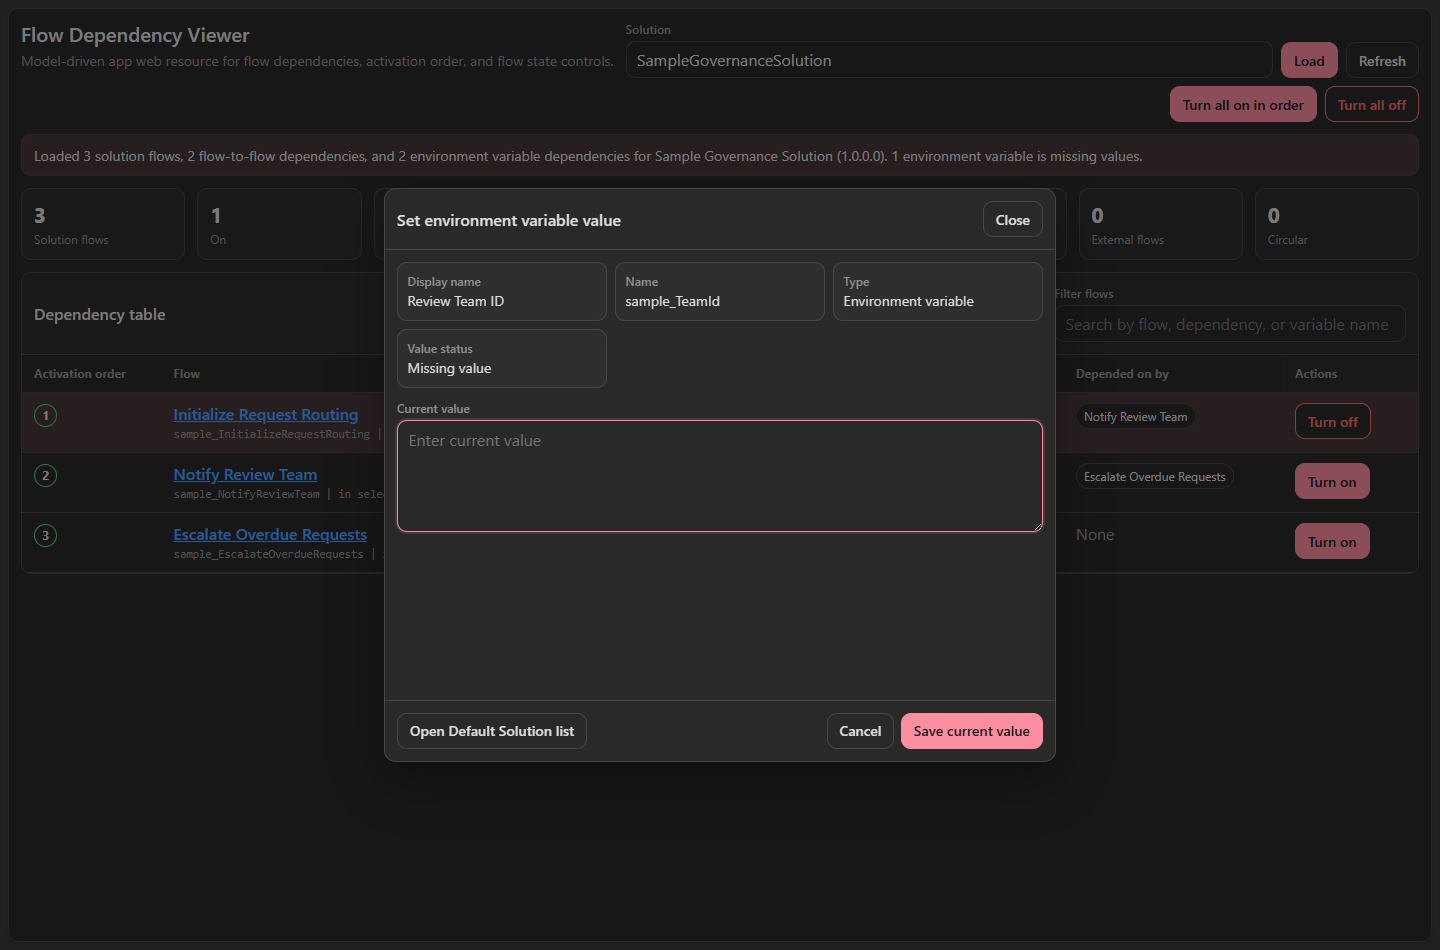
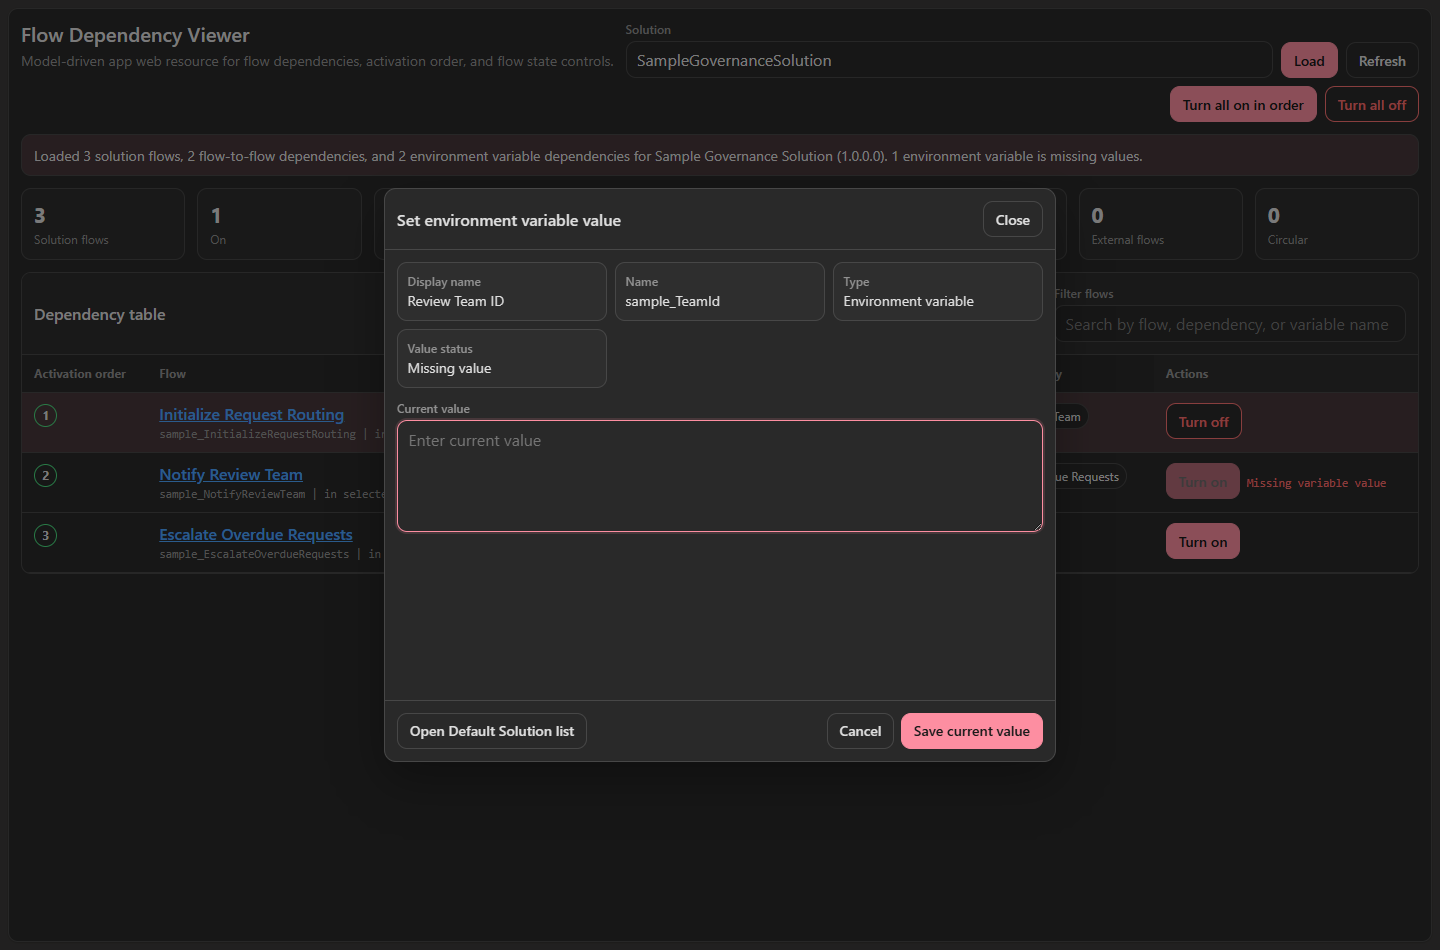
Block flow activation when variables are missing

diff --git a/tools/flow-dependency-viewer/solution/src/WebResources/fdv_/flowdependencyviewer.htm b/tools/flow-dependency-viewer/solution/src/WebResources/fdv_/flowdependencyviewer.htm
@@ -451,6 +451,9 @@
       border-color: var(--cp-danger);
       color: var(--cp-danger);
     }
+    .fdv-danger-text {
+      color: var(--cp-danger);
+    }
     .fdv-button-danger:hover:not(:disabled) {
       border-color: var(--cp-danger);
       font-weight: 700;
@@ -1530,6 +1533,11 @@
           if (inactiveExternalPrerequisites.length > 0) {
             blockedReasons.push(`${inactiveExternalPrerequisites.length} external prerequisite flow${inactiveExternalPrerequisites.length === 1 ? " is" : "s are"} off. Turn external prerequisites on first or add them to the solution.`);
           }
+
+          const flowsMissingEnvironmentVariables = orderedFlows.filter((flow) => getMissingEnvironmentVariables(flow).length > 0);
+          if (flowsMissingEnvironmentVariables.length > 0) {
+            blockedReasons.push(`${flowsMissingEnvironmentVariables.length} solution flow${flowsMissingEnvironmentVariables.length === 1 ? " is" : "s are"} missing required environment variable values. Set the missing values before turning flows on.`);
+          }
         }
 
         return { orderedFlows, blockedReasons };
@@ -1626,6 +1634,12 @@
             setMessage("error", `Turn on prerequisite flow${inactivePrerequisites.length === 1 ? "" : "s"} first: ${inactivePrerequisites.map((dependency) => dependency.name).join(", ")}.`);
             return;
           }
+
+          const missingEnvironmentVariables = getMissingEnvironmentVariables(flow);
+          if (missingEnvironmentVariables.length > 0) {
+            setMessage("error", `Set environment variable value${missingEnvironmentVariables.length === 1 ? "" : "s"} first: ${missingEnvironmentVariables.map(getEnvironmentVariableLabel).join(", ")}.`);
+            return;
+          }
         }
 
         const confirmed = await confirmAction(
@@ -1657,6 +1671,13 @@
       async function updateFlowState(flow, turnOn) {
         if (!flow.inSolution) {
           throw new Error(`${flow.name} is outside the selected solution and was not changed.`);
+        }
+
+        if (turnOn) {
+          const missingEnvironmentVariables = getMissingEnvironmentVariables(flow);
+          if (missingEnvironmentVariables.length > 0) {
+            throw new Error(`Set environment variable value${missingEnvironmentVariables.length === 1 ? "" : "s"} first: ${missingEnvironmentVariables.map(getEnvironmentVariableLabel).join(", ")}.`);
+          }
         }
 
         await getWebApi().updateRecord("workflow", flow.id, {
@@ -2508,9 +2529,18 @@
         }
 
         const turnOn = !isFlowActive(flow);
-        actions.appendChild(createButton(turnOn ? "Turn on" : "Turn off", turnOn ? "primary" : "danger", () => {
+        const missingEnvironmentVariables = turnOn ? getMissingEnvironmentVariables(flow) : [];
+        const button = createButton(turnOn ? "Turn on" : "Turn off", turnOn ? "primary" : "danger", () => {
           void setSingleFlowState(flow, turnOn);
-        }, state.isLoading || state.isWorking));
+        }, state.isLoading || state.isWorking || missingEnvironmentVariables.length > 0);
+        if (missingEnvironmentVariables.length > 0) {
+          button.title = `Set environment variable value${missingEnvironmentVariables.length === 1 ? "" : "s"} first: ${missingEnvironmentVariables.map(getEnvironmentVariableLabel).join(", ")}`;
+        }
+        actions.appendChild(button);
+
+        if (missingEnvironmentVariables.length > 0) {
+          actions.appendChild(createElement("div", "fdv-flow-meta fdv-danger-text", `Missing variable value${missingEnvironmentVariables.length === 1 ? "" : "s"}`));
+        }
 
         return cell;
       }
@@ -2781,6 +2811,14 @@
         }
 
         return "Missing value";
+      }
+
+      function getMissingEnvironmentVariables(flow) {
+        return Array.from(flow.environmentVariableIds)
+          .map((id) => state.environmentVariables.get(id))
+          .filter(Boolean)
+          .filter(isEnvironmentVariableValueMissing)
+          .sort(compareEnvironmentVariables);
       }
 
       function getMissingEnvironmentVariableCount(environmentVariableMap = state.environmentVariables, dependencies = state.environmentVariableDependencies) {

diff --git a/docs/FlowDependencyViewer.md b/docs/FlowDependencyViewer.md
@@ -12,6 +12,7 @@ It is designed for scenarios like:
 - Finding environment variables referenced by each flow
 - Flagging environment variables that are missing both current and default values
 - Opening flows directly and editing environment variable values from the table
+- Blocking flow activation until that flow's referenced environment variables have values
 
 ## Files
 
@@ -94,6 +95,8 @@ When activation commands are enabled, admins can:
 - Turn all solution flows on in activation order
 - Turn all solution flows off in reverse activation order
 
+The **Turn on** button is disabled for an individual flow when any environment variable referenced by that flow has no current value and no default value. Bulk activation also blocks until missing environment variable values are set.
+
 The control updates each workflow row to:
 
 | Action | `statecode` | `statuscode` |
@@ -143,6 +146,7 @@ This tool does not bypass Dataverse or Power Automate security checks.
 | Environment variable pill is red | The variable has no active current value and no default value |
 | Opening the Default Solution list fails | The Power Platform environment ID is not available in the URL or `environmentName` parameter, the Default Solution could not be found, or the user lacks access |
 | Saving an environment variable value fails | Current user lacks privileges to create or update `environmentvariablevalue` rows, or the variable type requires additional maker-specific configuration |
+| Turn on button is disabled | One or more environment variables referenced by that flow are missing values |
 | Turning on a flow fails with `XrmEnvironmentVariableAttributeNotFound` | A referenced environment variable is missing a value in this environment |
 | Turn on is blocked by prerequisite flows | A required flow is off; turn prerequisite flows on first |
 | Buttons are missing | Activation commands are disabled |

diff --git a/tools/flow-dependency-viewer/README.md b/tools/flow-dependency-viewer/README.md
@@ -12,6 +12,7 @@ It is designed for scenarios like:
 - Finding environment variables referenced by each flow
 - Flagging environment variables that are missing both current and default values
 - Opening flows directly and editing environment variable values from the table
+- Blocking flow activation until that flow's referenced environment variables have values
 
 ## Files
 
@@ -94,6 +95,8 @@ When activation commands are enabled, admins can:
 - Turn all solution flows on in activation order
 - Turn all solution flows off in reverse activation order
 
+The **Turn on** button is disabled for an individual flow when any environment variable referenced by that flow has no current value and no default value. Bulk activation also blocks until missing environment variable values are set.
+
 The control updates each workflow row to:
 
 | Action | `statecode` | `statuscode` |
@@ -143,6 +146,7 @@ This tool does not bypass Dataverse or Power Automate security checks.
 | Environment variable pill is red | The variable has no active current value and no default value |
 | Opening the Default Solution list fails | The Power Platform environment ID is not available in the URL or `environmentName` parameter, the Default Solution could not be found, or the user lacks access |
 | Saving an environment variable value fails | Current user lacks privileges to create or update `environmentvariablevalue` rows, or the variable type requires additional maker-specific configuration |
+| Turn on button is disabled | One or more environment variables referenced by that flow are missing values |
 | Turning on a flow fails with `XrmEnvironmentVariableAttributeNotFound` | A referenced environment variable is missing a value in this environment |
 | Turn on is blocked by prerequisite flows | A required flow is off; turn prerequisite flows on first |
 | Buttons are missing | Activation commands are disabled |
